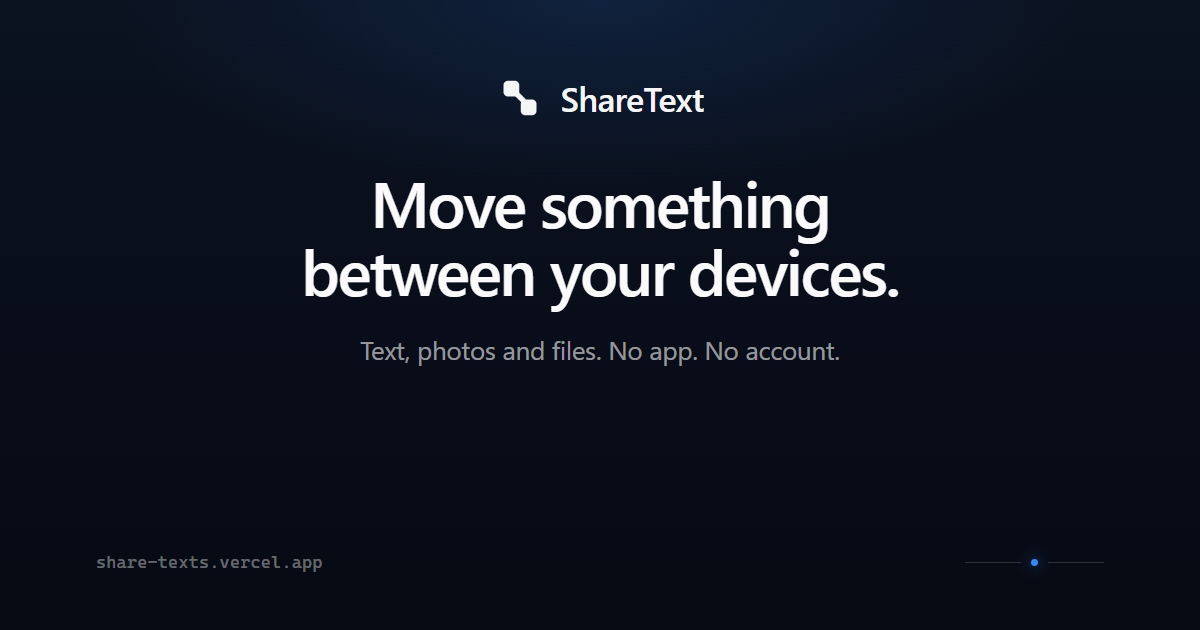
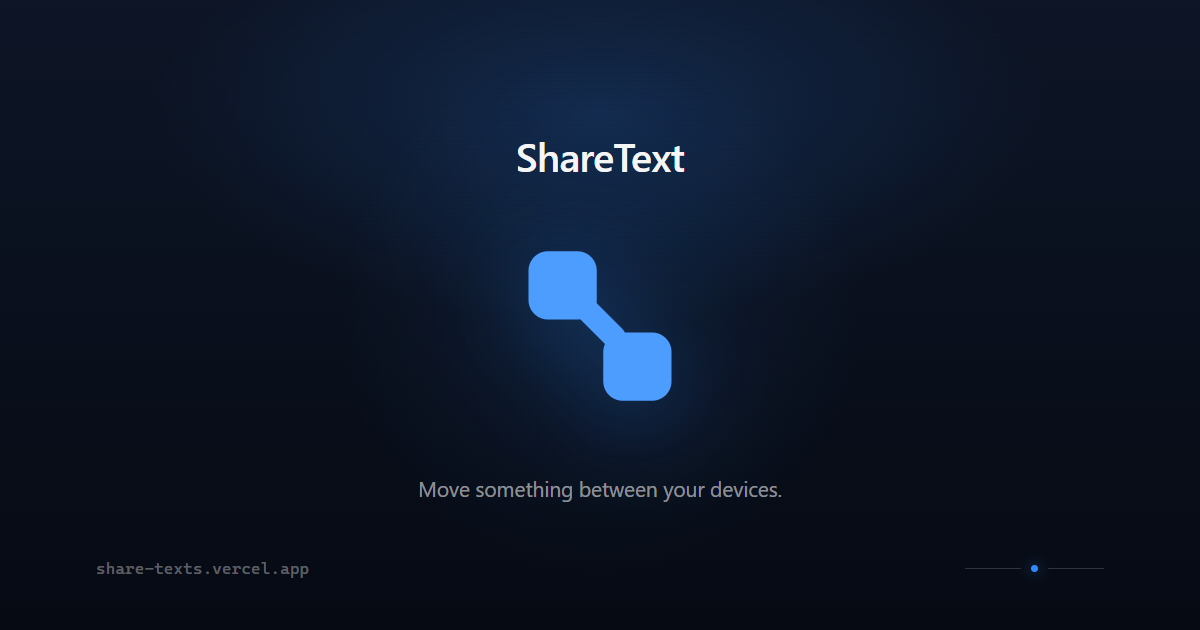
feat: alive hero, laptop horizon view, ambient landing, 404, new OG
The landing now breathes: devices float on slow offset phases, and
the transfer travels an arc (desktop bows upward, mobile bows
sideways) with a slight toss rotation instead of a straight slide.
All motion respects prefers-reduced-motion.

The laptop is drawn from the front at a horizon angle: screen
head-on with a wider receding deck below — a trapezoid base with
foreshortened key rows and a trackpad hint — so you see the screen
and a glimpse of the keyboard, not a flat slab.

The landing page gets ambient depth: a slowly breathing azure glow,
a second cooler tone lower down, a faint masked dot grid, and (on
desktop, reduced-motion safe) a soft light that follows the cursor
with a spring. Nothing competes with the product.

Wrong URLs now land on a real 404 in the app's visual language:
brand mark, ambient glow, "Start a Session" + "Back to Home" —
instead of a bare "Page Not Found".

The OG image is redesigned around the product itself: the two-device
mark large and centered with a soft halo, wordmark, one line, and
the URL — it's already wired to every route via the absolute
og:image/twitter:image in index.html.

Also fixed the viewport audit's fixed-bar check to ignore
pointer-events-none decorative layers (the new glow isn't a bar).

Verified: typecheck + build clean, E2E 12/12, worker suite 30/30,
all 8 viewports clean, pointer light tracks the cursor, float + arc
confirmed on mobile, design metrics clean.

🤖 Generated with Codebuff

diff --git a/src/views/Landing.tsx b/src/views/Landing.tsx
@@ -1,6 +1,6 @@
-import React, { useState } from 'react';
+import React, { useState, useEffect } from 'react';
 import { useSession } from '../lib/SessionContext';
-import { motion } from 'motion/react';
+import { motion, useMotionValue, useSpring } from 'motion/react';
 import { ShareTextLogo } from '../components/ShareTextLogo';
 import { HeroDemo } from '../components/HeroDemo';
 import { ScrollStory } from '../components/ScrollStory';
@@ -9,6 +9,90 @@ import { ArrowRight, Send, Inbox } from 'lucide-react';
 import { LiveUsers } from '../components/LiveUsers';
 
 const EASE = [0.16, 1, 0.3, 1] as const;
+
+/**
+ * The page's ambient backdrop — quiet layers behind everything:
+ *   - a soft azure glow breathing near the top (same warmth as the room screen),
+ *   - a faint dot grid that reads as texture, not a pattern,
+ *   - on hover-capable screens, a very subtle light that follows the pointer.
+ * Every layer respects prefers-reduced-motion (no movement) and none of it
+ * competes with the product — it's atmosphere, not decoration.
+ */
+function usePrefersReducedMotion() {
+  const [reduced, setReduced] = useState(false);
+  useEffect(() => {
+    const mq = window.matchMedia('(prefers-reduced-motion: reduce)');
+    const update = () => setReduced(mq.matches);
+    update();
+    mq.addEventListener('change', update);
+    return () => mq.removeEventListener('change', update);
+  }, []);
+  return reduced;
+}
+
+function PointerLight() {
+  const reduced = usePrefersReducedMotion();
+  const x = useMotionValue(-400);
+  const y = useMotionValue(-400);
+  const sx = useSpring(x, { stiffness: 60, damping: 18, mass: 0.6 });
+  const sy = useSpring(y, { stiffness: 60, damping: 18, mass: 0.6 });
+
+  // Listen on window so the light never blocks interaction — the layer below
+  // is pointer-events-none, but we still want the glow to follow the cursor.
+  useEffect(() => {
+    const onMove = (e: PointerEvent) => {
+      x.set(e.clientX);
+      y.set(e.clientY);
+    };
+    window.addEventListener('pointermove', onMove, { passive: true });
+    return () => window.removeEventListener('pointermove', onMove);
+  }, [x, y]);
+
+  if (reduced) return null;
+
+  return (
+    <div aria-hidden className="pointer-events-none fixed inset-0 z-0 hidden lg:block">
+      <motion.div
+        className="absolute w-[560px] h-[560px] rounded-full"
+        style={{
+          left: sx,
+          top: sy,
+          x: '-50%',
+          y: '-50%',
+          background: 'radial-gradient(circle, rgba(46,139,255,0.05) 0%, transparent 62%)',
+        }}
+      />
+    </div>
+  );
+}
+
+function AmbientBackdrop() {
+  const reduced = usePrefersReducedMotion();
+  return (
+    <div aria-hidden className="pointer-events-none absolute inset-0 overflow-hidden">
+      {/* Azure glow — breathes slowly; static under reduced motion */}
+      <div className="absolute -top-[18%] left-1/2 -translate-x-1/2 w-[120%] h-[52%]">
+        <motion.div
+          className="w-full h-full bg-[radial-gradient(50%_60%_at_50%_0%,rgba(46,139,255,0.12),transparent_70%)]"
+          animate={reduced ? undefined : { opacity: [0.7, 1, 0.7] }}
+          transition={{ duration: 9, repeat: Infinity, ease: 'easeInOut' }}
+        />
+      </div>
+      {/* Second, cooler tone lower on the page for depth */}
+      <div className="absolute top-[38%] right-[-10%] w-[55%] h-[45%] bg-[radial-gradient(60%_60%_at_50%_50%,rgba(120,80,220,0.06),transparent_70%)]" />
+      {/* Faint dot grid — barely-there texture */}
+      <div
+        className="absolute inset-0 opacity-[0.35] dark:opacity-40"
+        style={{
+          backgroundImage: 'radial-gradient(rgba(20,24,32,0.5) 1px, transparent 1px)',
+          backgroundSize: '34px 34px',
+          maskImage: 'radial-gradient(70% 50% at 50% 0%, black 0%, transparent 75%)',
+          WebkitMaskImage: 'radial-gradient(70% 50% at 50% 0%, black 0%, transparent 75%)',
+        }}
+      />
+    </div>
+  );
+}
 
 /**
  * ShareText is a temporary bridge between two devices.
@@ -35,7 +119,10 @@ export function Landing({ onJoinClick }: { onJoinClick: () => void }) {
   };
 
   return (
-    <div className="min-h-screen bg-apple-canvas dark:bg-night-900 font-sans selection:bg-azure-500/20 flex flex-col overflow-x-clip">
+    <div className="min-h-screen relative bg-apple-canvas dark:bg-night-900 font-sans selection:bg-azure-500/20 flex flex-col overflow-x-clip">
+      <AmbientBackdrop />
+      <PointerLight />
+
       {/* ============ HEADER — logo only; nothing competes with the product ============ */}
       <header className="sticky top-0 z-40 bg-apple-canvas/85 dark:bg-night-900/85 backdrop-blur-md border-b border-apple-divider dark:border-white/[0.06]">
         <div className="max-w-6xl mx-auto px-6 h-14 flex items-center">

diff --git a/src/components/DeviceFrames.tsx b/src/components/DeviceFrames.tsx
@@ -135,9 +135,12 @@ export function LaptopFrame({
 }) {
   return (
     <div className={cn('relative shrink-0', className)}>
-      {/* Lid — aluminium, seen from the front at ~95° open: the screen faces
-          the viewer almost straight on and the base is just a slim lip below.
-          No keyboard is visible — it recedes behind the screen. */}
+      {/* Seen from the front, slightly above the horizon: the screen faces the
+          viewer almost head-on, and below it you glimpse the deck receding —
+          a trapezoid base, wider at the front edge, with foreshortened keys.
+          This is the honest open-laptop view: screen, then a hint of keys. */}
+
+      {/* Lid — aluminium, nearly straight on */}
       <div className="relative rounded-[clamp(7px,2.2%,16px)] p-[1.5%] bg-[linear-gradient(168deg,#8a8a92_0%,#4a4a50_16%,#303034_45%,#1c1c1f_100%)] shadow-device">
         {/* Camera pinhole */}
         <div className="absolute top-[3.5%] left-1/2 -translate-x-1/2 w-[2.6%] aspect-square rounded-full bg-[#0a0a0c] ring-1 ring-white/15 z-30 shadow-[inset_0_0_2px_rgba(0,0,0,0.9)]">
@@ -157,14 +160,38 @@ export function LaptopFrame({
         </div>
       </div>
 
-      {/* Base — the front lip of the laptop body, slightly wider than the lid,
-          with the hinge seam where it meets the screen. This is all you see
-          from the front; the deck recedes away. */}
-      <div className="relative -mt-[1.2%] mx-auto w-[103%] h-[7.5%] min-h-[10px] rounded-b-[clamp(7px,2.2%,16px)] bg-[linear-gradient(180deg,#2c2c30_0%,#242428_35%,#17171a_100%)] shadow-[0_14px_28px_-12px_rgba(0,0,0,0.5)]">
-        {/* Hinge seam — the dark gap where the lid meets the base */}
-        <div className="absolute -top-[1px] left-[3%] right-[3%] h-[1.5px] rounded-full bg-black/70" />
-        {/* Front edge highlight — a machined lip catching the light */}
-        <div className="absolute bottom-[12%] left-[6%] right-[6%] h-[1px] rounded-full bg-white/[0.12]" />
+      {/* Deck — a trapezoid that recedes: narrow at the hinge, widening toward
+          the front edge. Keys are foreshortened slivers; a thin palm-rest lip
+          with the trackpad hint closes the base. */}
+      <div className="relative mx-auto -mt-[1%] w-[108%] rounded-b-[clamp(7px,2.2%,16px)] bg-[linear-gradient(180deg,#2e2e33_0%,#26262a_30%,#1e1e22_100%)] shadow-[0_16px_32px_-14px_rgba(0,0,0,0.55)]"
+        style={{ clipPath: 'polygon(3.5% 0%, 96.5% 0%, 100% 100%, 0% 100%)' }}>
+        {/* Hinge seam — the dark gap where the lid meets the deck */}
+        <div className="absolute top-0 left-[3%] right-[3%] h-[2px] rounded-full bg-black/80" />
+
+        {/* Foreshortened keys — three rows, tighter toward the hinge */}
+        <div className="flex flex-col gap-[4%] px-[4.5%] pt-[4%]">
+          {[1, 0.78, 0.6].map((h, row) => (
+            <div key={row} className="flex justify-between gap-[1.6%]">
+              {Array.from({ length: 12 }).map((_, k) => (
+                <span
+                  key={k}
+                  className="flex-1 rounded-[1.5px] bg-[linear-gradient(180deg,#3b3b41_0%,#2b2b30_60%,#242428_100%)] ring-1 ring-white/[0.05] shadow-[inset_0_1px_0_rgba(255,255,255,0.06),0_1px_1px_rgba(0,0,0,0.4)]"
+                  style={{ height: `${h * 1}em`, maxHeight: `${h * 8}px` }}
+                />
+              ))}
+            </div>
+          ))}
+        </div>
+
+        {/* Palm rest + trackpad hint, closing the base */}
+        <div className="px-[8%] pb-[4%] pt-[5%]">
+          <div className="relative mx-auto w-[30%] rounded-[3px] bg-[linear-gradient(180deg,#26262a_0%,#1d1d21_100%)] ring-1 ring-white/[0.06] shadow-[inset_0_2px_4px_rgba(0,0,0,0.5)]"
+            style={{ height: '0.9em', maxHeight: '7px' }}>
+            <span className="absolute left-1/2 top-[10%] bottom-[10%] w-px -translate-x-1/2 bg-black/50" />
+          </div>
+        </div>
+        {/* Front edge highlight — the machined lip nearest the viewer */}
+        <div className="absolute bottom-[3%] left-[6%] right-[6%] h-[1px] rounded-full bg-white/[0.14]" />
       </div>
 
       <GroundShadow className="w-[80%] h-[6%] -bottom-[5.5%] opacity-55" />

diff --git a/src/components/HeroDemo.tsx b/src/components/HeroDemo.tsx
@@ -178,8 +178,13 @@ export function HeroDemo() {
       </div>
 
       <div className="flex flex-col sm:flex-row items-center sm:items-center sm:justify-between gap-20 sm:gap-0 px-2 sm:px-6 relative">
-        {/* Phone — the sender */}
-        <div className="flex flex-col items-center">
+        {/* Phone — the sender. A slow idle float keeps the scene alive without
+            competing with the transfer; reduced-motion users get a still device. */}
+        <motion.div
+          animate={reduced ? undefined : { y: [0, -6, 0] }}
+          transition={{ duration: 6.5, repeat: Infinity, ease: 'easeInOut', times: [0, 0.5, 1] }}
+          className="flex flex-col items-center will-change-transform"
+        >
           <PhoneFrame className="w-[124px] sm:w-[148px]">
             <div ref={phoneScreenRef} className="w-full h-full flex flex-col">
               <RoomHeader status={phoneStatus} label="Your phone" />
@@ -271,10 +276,14 @@ export function HeroDemo() {
             </div>
           </PhoneFrame>
           <DeviceLabel>Your phone</DeviceLabel>
-        </div>
+        </motion.div>
 
-        {/* Laptop — the receiver */}
-        <div className="flex flex-col items-center">
+        {/* Laptop — the receiver, floating on a slightly different phase */}
+        <motion.div
+          animate={reduced ? undefined : { y: [0, 5, 0] }}
+          transition={{ duration: 7, repeat: Infinity, ease: 'easeInOut', times: [0, 0.5, 1] }}
+          className="flex flex-col items-center will-change-transform"
+        >
           <LaptopFrame className="w-[248px] sm:w-[300px] xl:w-[330px]">
             <div ref={laptopScreenRef} className="w-full h-full flex flex-col">
               <RoomHeader status={laptopStatus} label="Your laptop" />
@@ -324,20 +333,27 @@ export function HeroDemo() {
             </div>
           </LaptopFrame>
           <DeviceLabel>Your laptop</DeviceLabel>
-        </div>
+        </motion.div>
       </div>
 
-      {/* The object in flight */}
+      {/* The object in flight — a natural arc, not a straight slide: it lifts,
+          travels, and settles with a slight rotation, like a card tossed
+          across the gap. Direction-aware: desktop bows upward, mobile bows
+          sideways. */}
       <AnimatePresence>
         {flying && !reduced && (
           <motion.div
             key={`fly-${scene}-${step}`}
             className="absolute z-20 pointer-events-none"
             style={{ left: from.x, top: from.y, transform: 'translate(-50%, -50%)' }}
-            initial={{ x: 0, y: 0, opacity: 0, scale: 0.9 }}
-            animate={{ x: dx, y: dy, opacity: [0, 1, 1, 1], scale: [0.9, 1.05, 1.02, 1.04] }}
+            initial={{ x: 0, y: 0, opacity: 0, scale: 0.85, rotate: -3 }}
+            animate={
+              beam.vertical
+                ? { x: [0, 14, 0], y: [0, dy * 0.42, dy], opacity: [0, 1, 1, 1], scale: [0.85, 1.04, 1, 1.03], rotate: [-3, 1.5, 0] }
+                : { x: [0, dx * 0.34, dx * 0.72, dx], y: [0, -18, -10, 0], opacity: [0, 1, 1, 1], scale: [0.85, 1.04, 1, 1.03], rotate: [-3, 1.5, 0] }
+            }
             exit={{ opacity: 0, scale: 0.95 }}
-            transition={{ duration: 1.5, times: [0, 0.12, 0.75, 1], ease: 'easeInOut' }}
+            transition={{ duration: 1.6, times: [0, 0.18, 0.72, 1], ease: [0.32, 0.72, 0, 1] }}
           >
             <div className="bg-white dark:bg-[#1c1c1e] border border-apple-divider dark:border-apple-tile-3 rounded-[12px] overflow-hidden shadow-float w-[72px] sm:w-[92px]">
               {TransferObject}

diff --git a/src/App.tsx b/src/App.tsx
@@ -138,19 +138,36 @@ function AppContent() {
 
   if (typeof window !== 'undefined' && window.location.pathname !== '/') {
     return (
-      <div className="min-h-screen flex flex-col items-center justify-center bg-apple-canvas dark:bg-black p-6 text-center">
-        <div className="w-16 h-16 bg-apple-parchment dark:bg-apple-tile-1 rounded-[20px] flex items-center justify-center mb-6">
-          <span className="text-[22px] font-semibold text-apple-ink-muted tracking-tight">404</span>
+      <motion.div
+        initial={{ opacity: 0 }}
+        animate={{ opacity: 1 }}
+        transition={{ duration: 0.3 }}
+        className="min-h-screen flex flex-col items-center justify-center bg-apple-canvas dark:bg-black p-6 text-center relative overflow-hidden"
+      >
+        {/* The same ambient warmth as the app's screens */}
+        <div className="absolute inset-x-0 top-0 h-[420px] bg-[radial-gradient(70%_90%_at_50%_-10%,rgba(46,139,255,0.10),transparent_65%)] pointer-events-none" aria-hidden />
+        <div className="w-20 h-20 bg-apple-parchment dark:bg-apple-tile-1 rounded-[24px] flex items-center justify-center mb-6 shadow-sm">
+          <ShareTextLogo size={34} className="text-apple-blue" />
         </div>
-        <h2 className="text-[24px] font-semibold text-apple-ink dark:text-white mb-2">Page Not Found</h2>
-        <p className="text-[17px] text-apple-ink-muted max-w-sm mb-8">The page you're looking for doesn't exist.</p>
-        <button
-          onClick={() => { window.location.href = '/'; }}
-          className="px-6 py-3 bg-apple-ink dark:bg-white text-white dark:text-night-900 rounded-[12px] text-[15px] font-semibold transition-motion active:scale-[0.97] min-h-[44px]"
-        >
-          Go to Homepage
-        </button>
-      </div>
+        <h2 className="text-[28px] font-semibold text-apple-ink dark:text-white tracking-tight mb-2">This page doesn't exist.</h2>
+        <p className="text-[16px] text-apple-ink-muted dark:text-white/60 font-medium max-w-sm mb-9">
+          Nothing was shared to this address. ShareText lives on the home page.
+        </p>
+        <div className="flex flex-col sm:flex-row items-stretch sm:items-center gap-3 w-full max-w-sm sm:max-w-none sm:w-auto">
+          <button
+            onClick={() => { window.location.href = '/'; }}
+            className="px-7 py-3.5 bg-apple-ink dark:bg-white text-white dark:text-night-900 rounded-[12px] text-[15px] font-semibold transition-motion active:scale-[0.97] shadow-card hover:shadow-float min-h-[48px] flex items-center justify-center gap-2"
+          >
+            <Send className="w-4 h-4" /> Start a Session
+          </button>
+          <button
+            onClick={() => { window.location.href = '/'; }}
+            className="px-6 py-3 rounded-[12px] text-[14px] font-medium text-apple-ink-muted dark:text-white/60 border border-apple-divider dark:border-white/15 hover:text-apple-ink dark:hover:text-white hover:border-apple-ink/30 dark:hover:border-white/30 transition-motion active:scale-[0.97] min-h-[48px] flex items-center justify-center gap-1.5"
+          >
+            <Home className="w-4 h-4" /> Back to Home
+          </button>
+        </div>
+      </motion.div>
     );
   }
 
